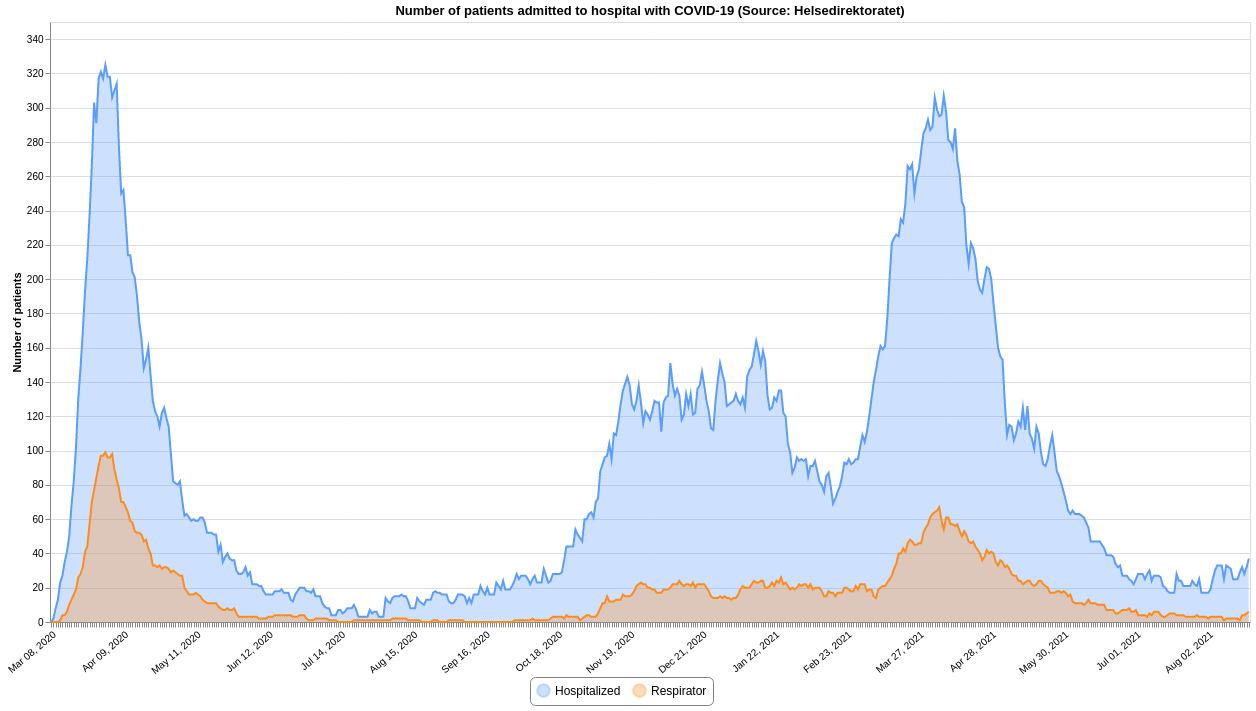
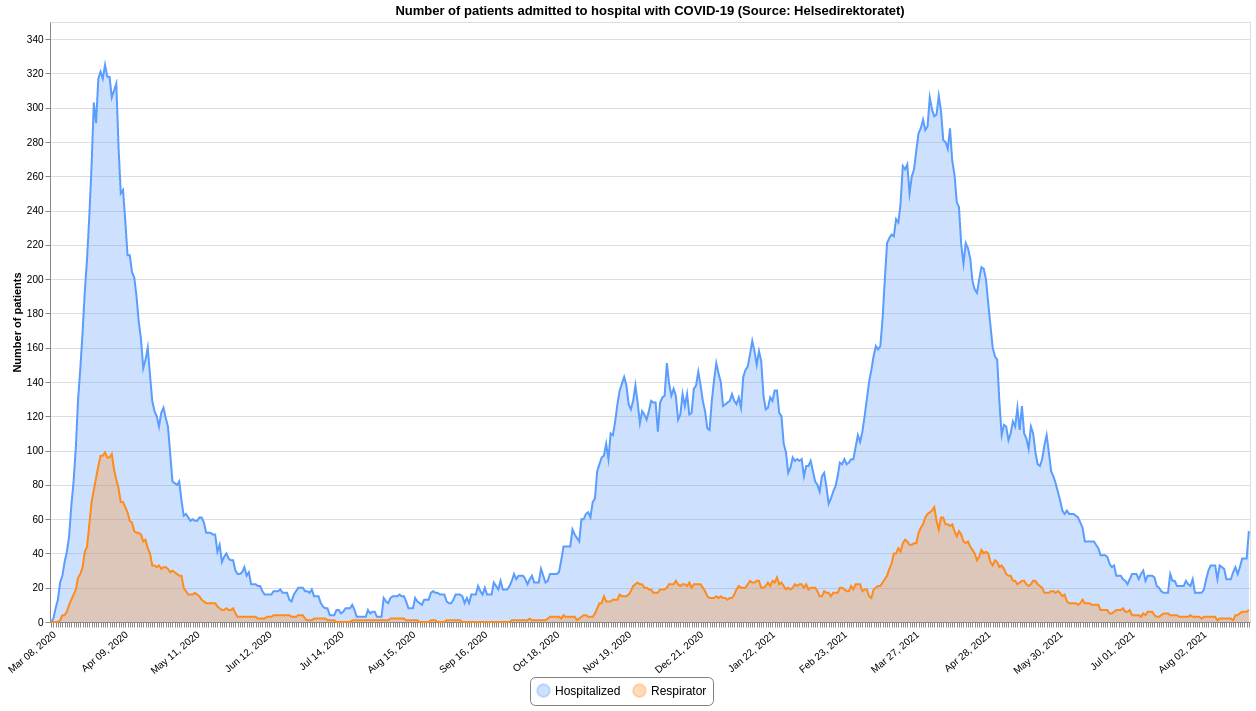
Updated 2021-08-23 12:20

diff --git a/README.md b/README.md
@@ -12,7 +12,7 @@ This repository contains datasets of daily time-series data related to COVID-19 
 | :--- | :--- | :--- | :--- | :--- |
 |[Confirmed](#confirmedcsv)|FHI / MSIS|2021-08-23 00:10:47+02:00|[<center>csv</center>](https://raw.githubusercontent.com/frefrik/covid19norge-data/main/data/confirmed.csv)|[<center>preview</center>](data/confirmed.csv)|
 |[Dead](#deadcsv)|FHI|2021-08-20 13:21:00+02:00|[<center>csv</center>](https://raw.githubusercontent.com/frefrik/covid19norge-data/main/data/dead.csv)|[<center>preview</center>](data/dead.csv)|
-|[Hospitalized](#hospitalizedcsv)|Helsedirektoratet|2021-08-20 12:20:48+02:00|[<center>csv</center>](https://raw.githubusercontent.com/frefrik/covid19norge-data/main/data/hospitalized.csv)|[<center>preview</center>](data/hospitalized.csv)|
+|[Hospitalized](#hospitalizedcsv)|Helsedirektoratet|2021-08-23 12:20:44+02:00|[<center>csv</center>](https://raw.githubusercontent.com/frefrik/covid19norge-data/main/data/hospitalized.csv)|[<center>preview</center>](data/hospitalized.csv)|
 |[Tested](#testedcsv)|FHI|2021-08-20 13:00:44+02:00|[<center>csv</center>](https://raw.githubusercontent.com/frefrik/covid19norge-data/main/data/tested.csv)|[<center>preview</center>](data/tested.csv)|
 |[Tested Lab](#tested_labcsv)|FHI|2021-08-20 13:20:55+02:00|[<center>csv</center>](https://raw.githubusercontent.com/frefrik/covid19norge-data/main/data/tested_lab.csv)|[<center>preview</center>](data/tested_lab.csv)|
 |[Transport](#transportcsv)|FHI|2021-08-23 09:40:47+02:00|[<center>csv</center>](https://raw.githubusercontent.com/frefrik/covid19norge-data/main/data/transport.csv)|[<center>preview</center>](data/transport.csv)|
